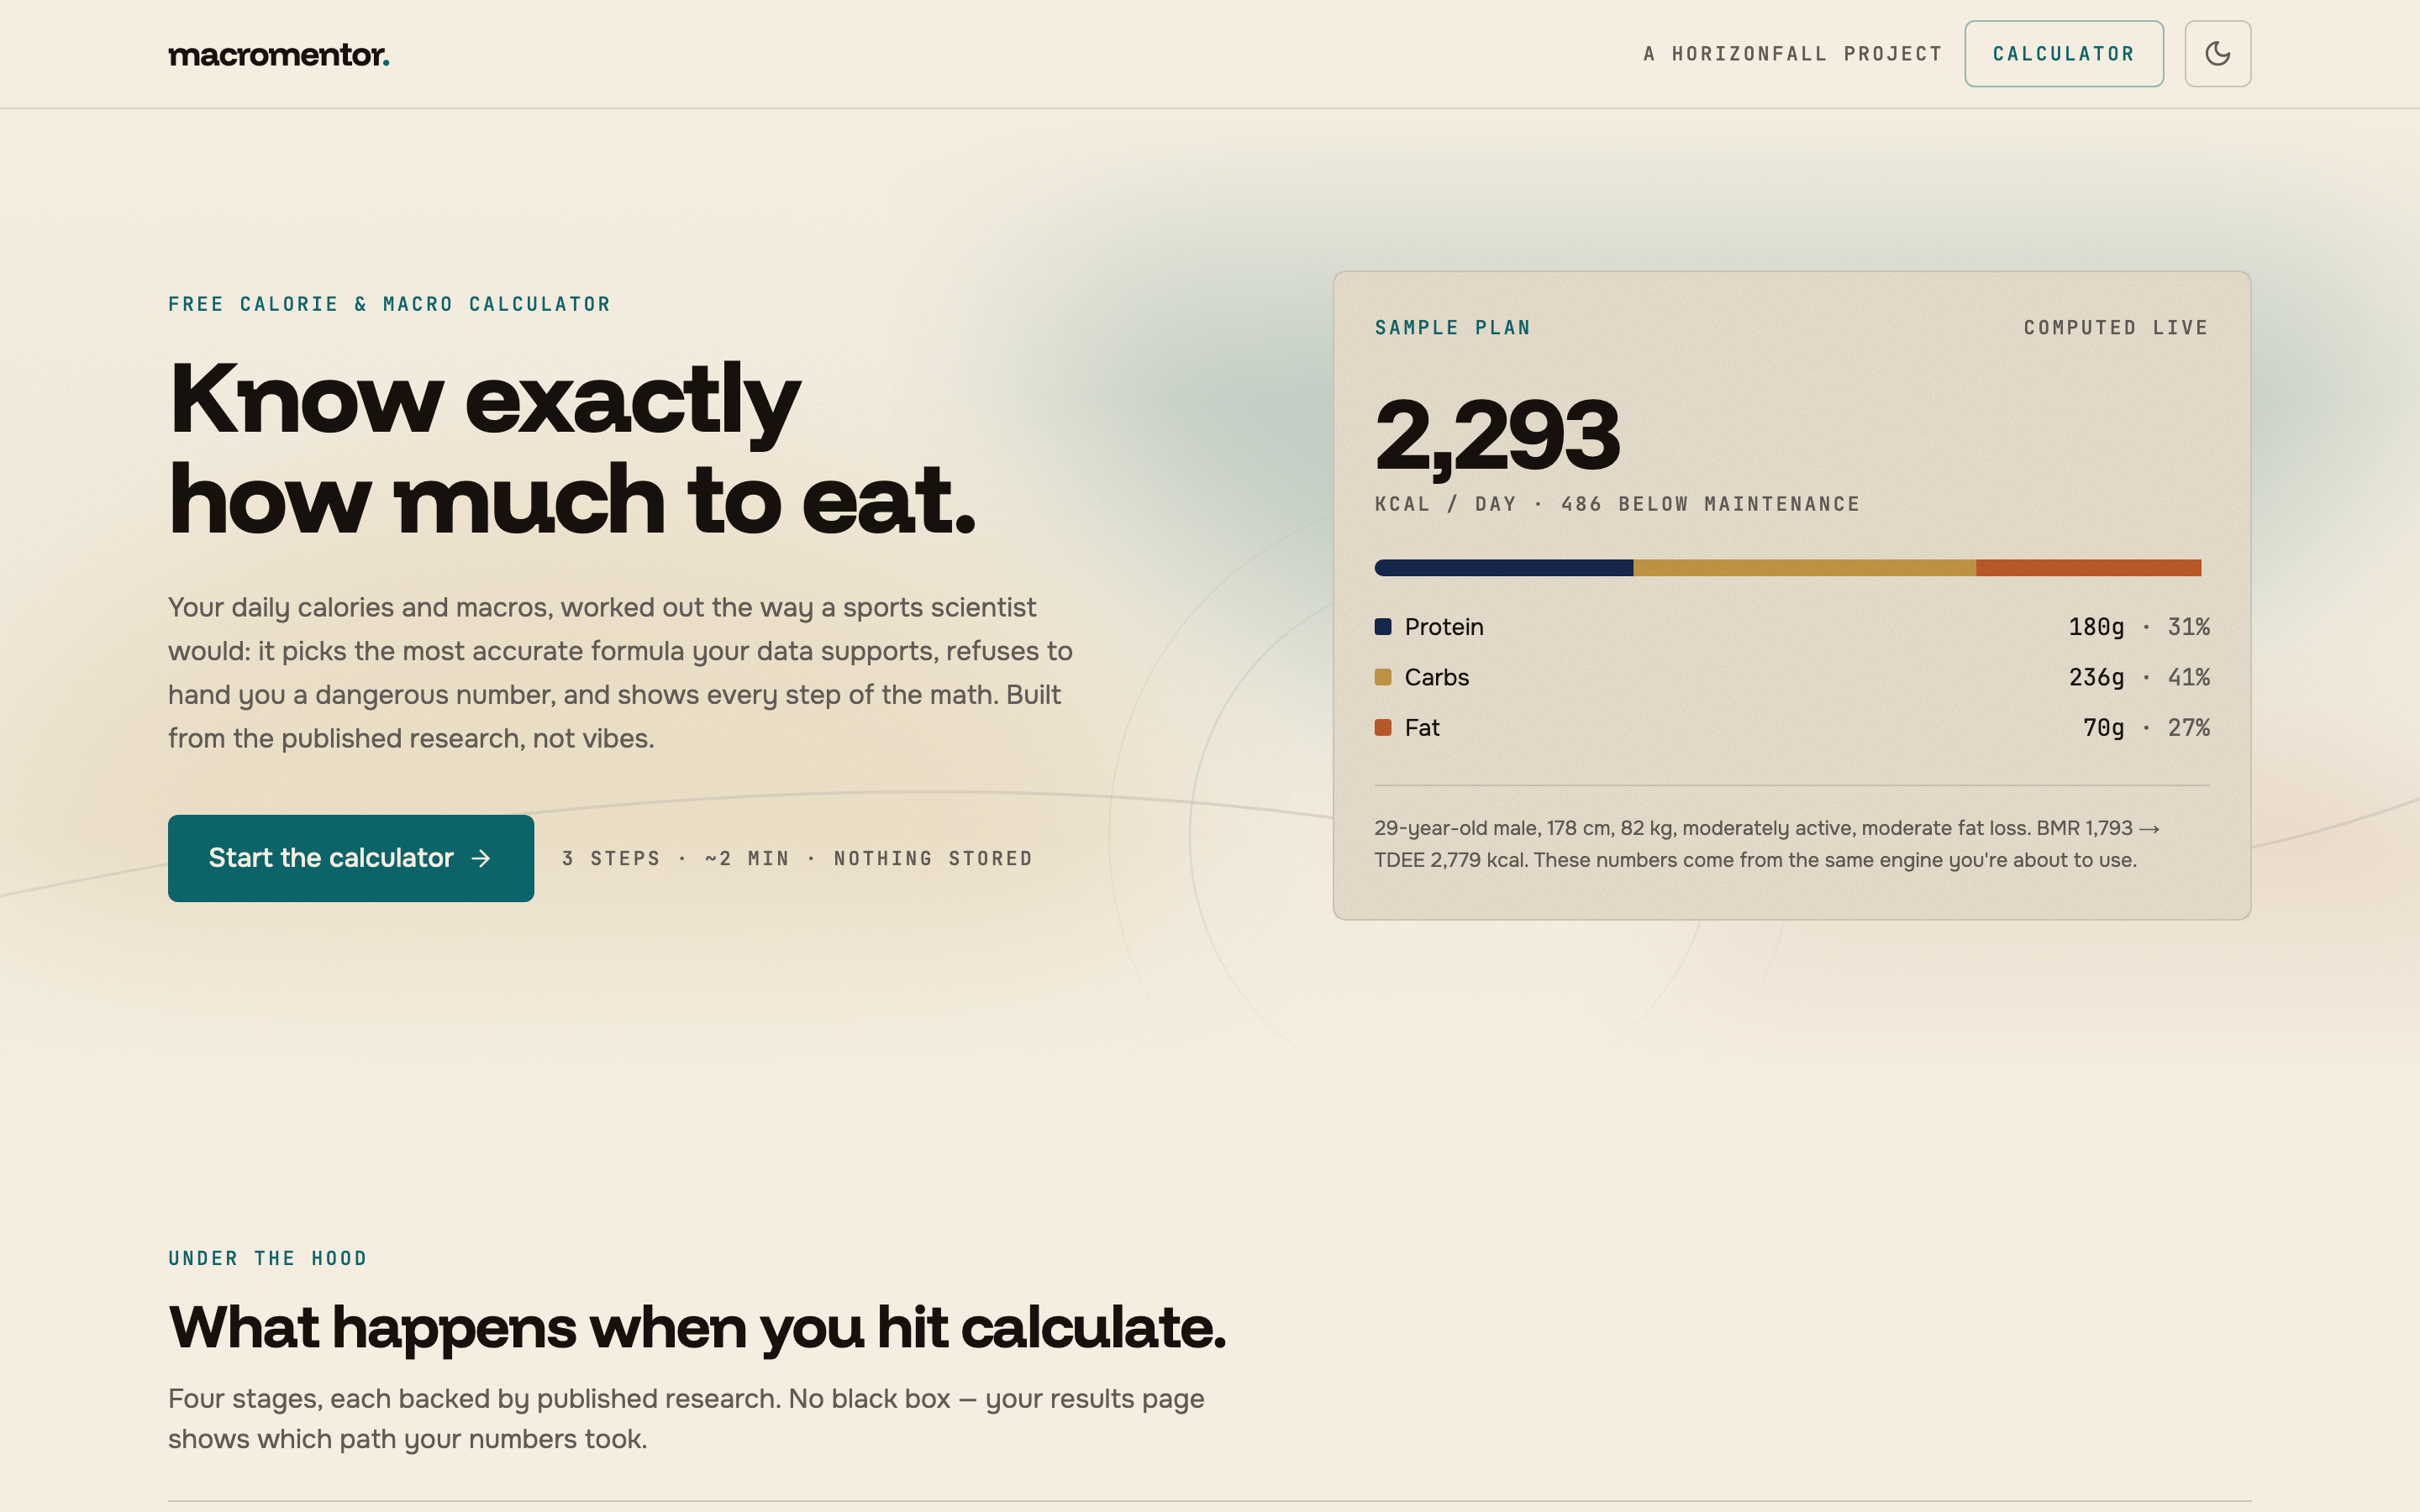
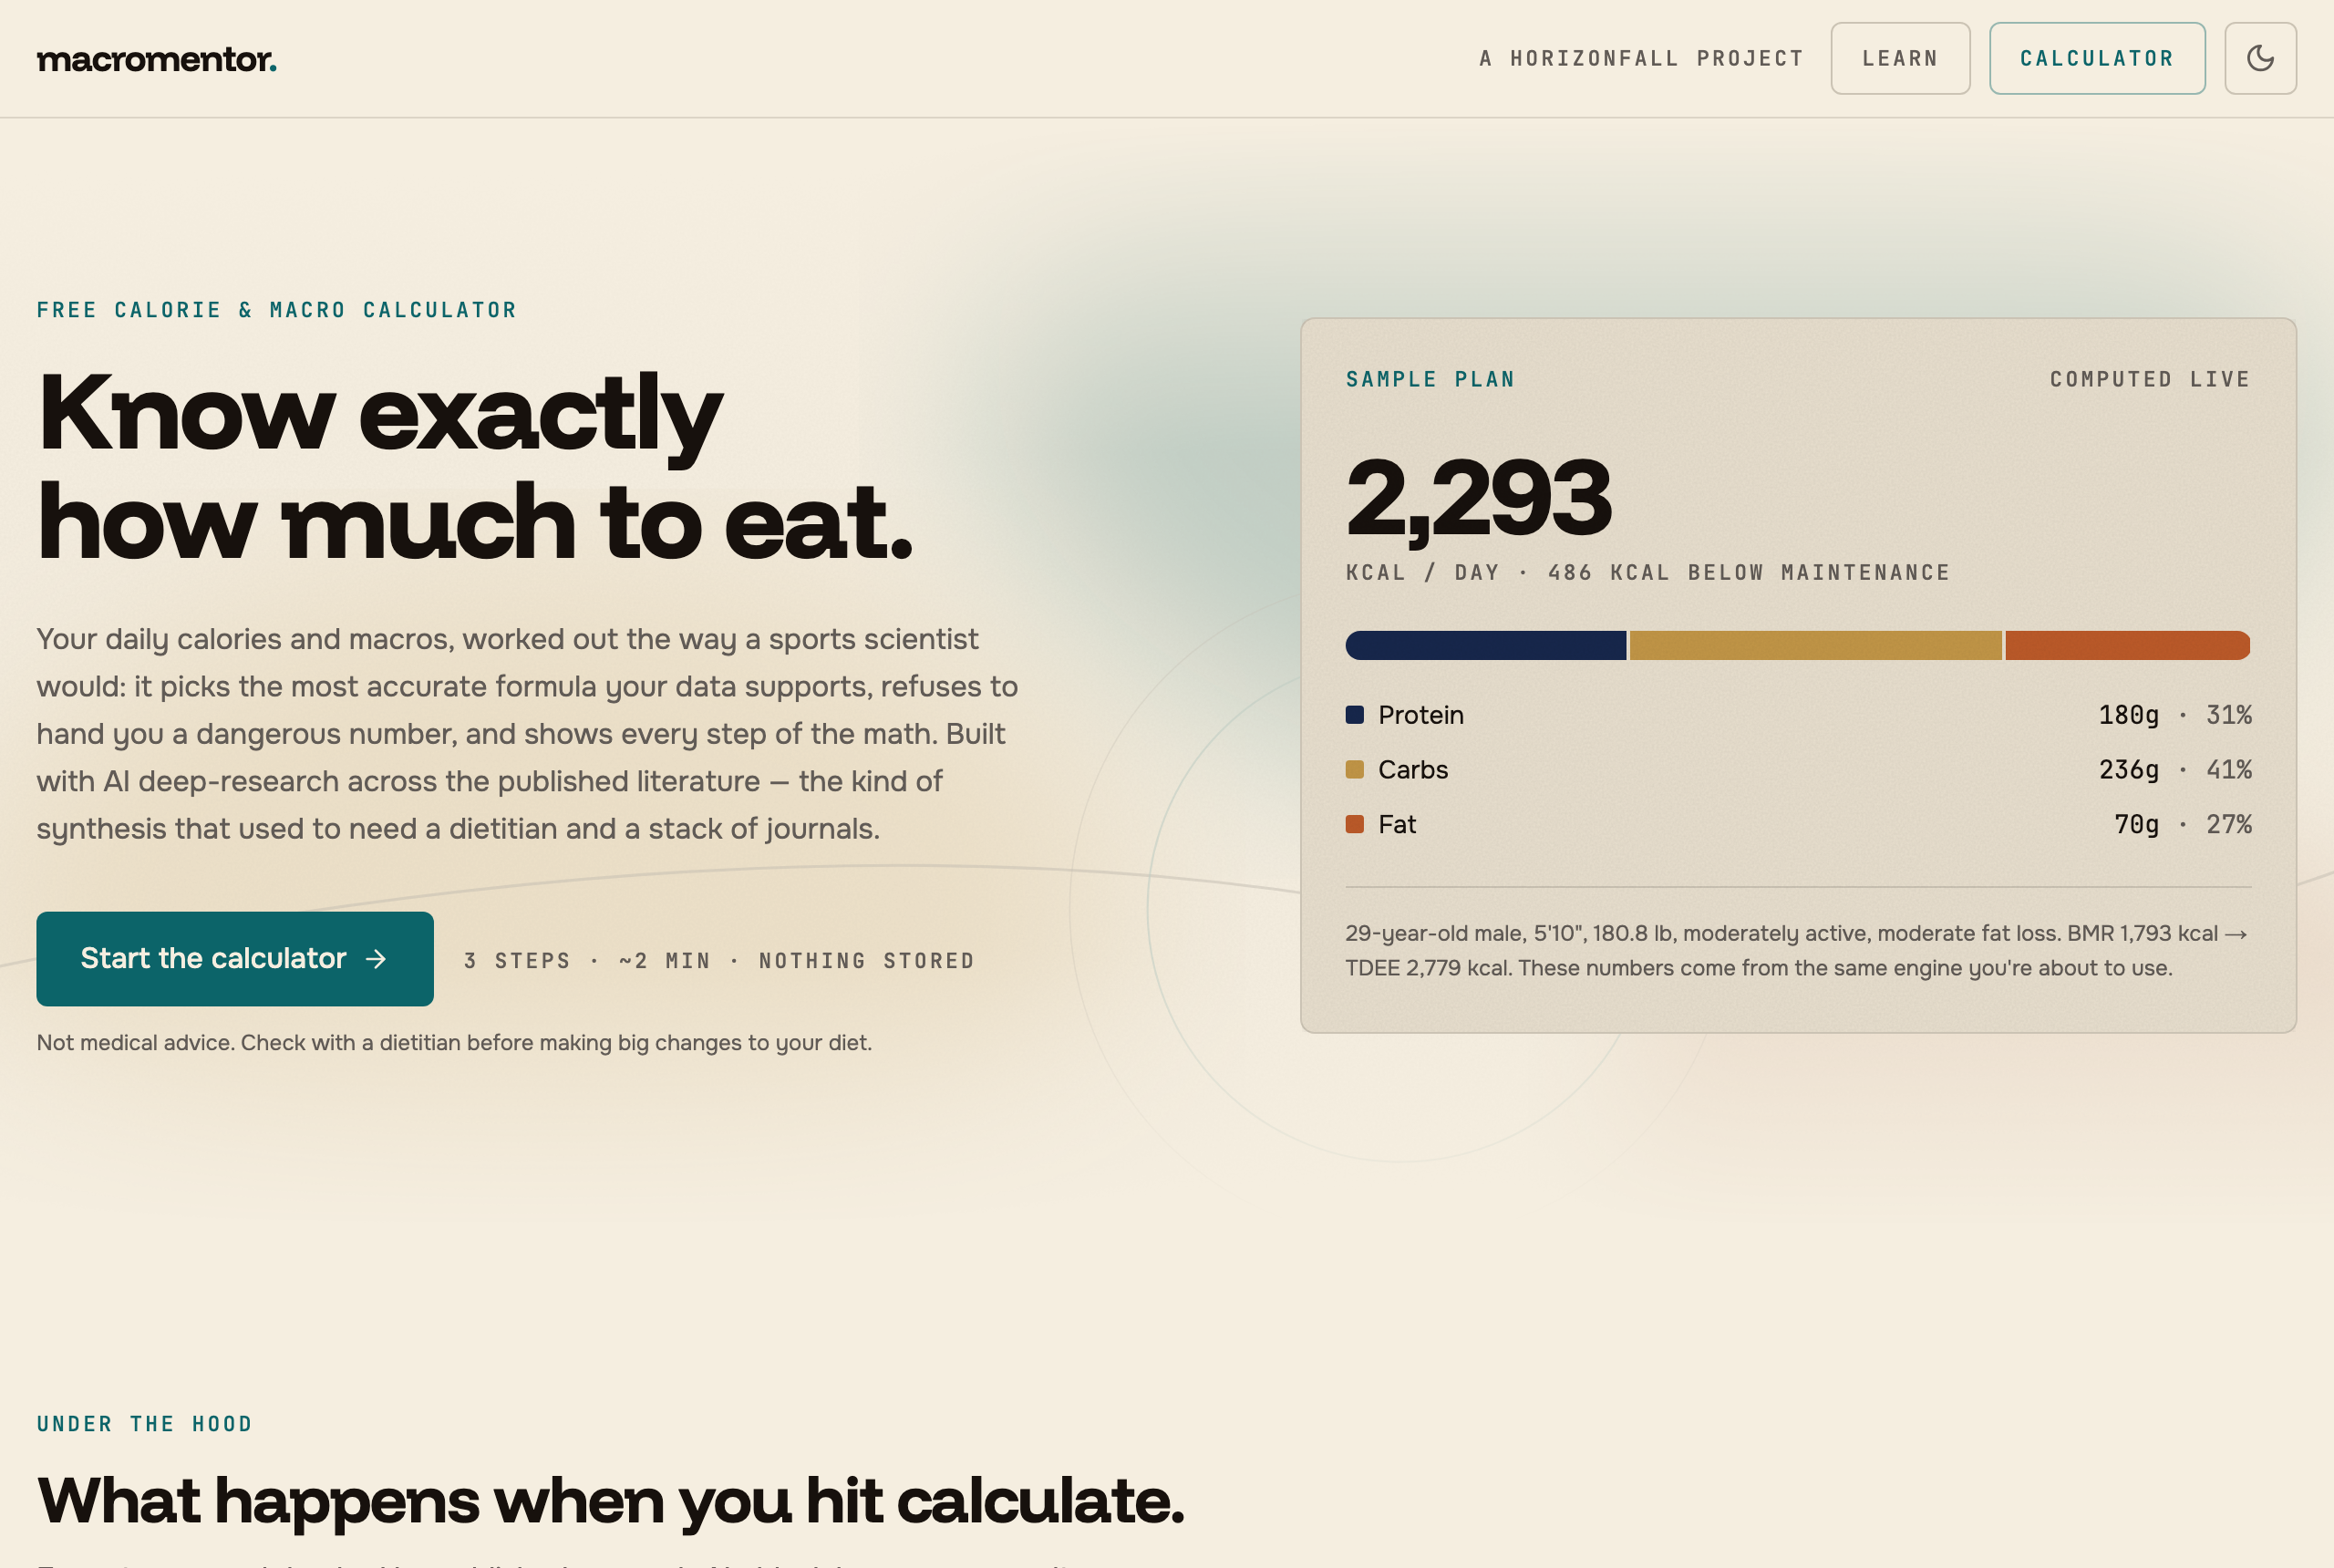
docs: refresh README with Learn hub section + updated screenshots
- New "Knowing your number is only half the job" section covering the Learn
  content hub: research->write->fact-check pipeline, in-house markdown
  renderer, typed content registry, per-article structured data + OG images.
- Refreshed homepage screenshot (now shows the Learn nav button) and added
  learn-index + article screenshots, captured via Playwright.
- Note the test-first discipline extends to prose (the fact-checker as a test).

Claude-Session: https://claude.ai/code/session_01SWr91gHWc8p2D7cCSqQQxG

diff --git a/README.md b/README.md
@@ -18,15 +18,27 @@ Everything runs in the browser. No account, no server receiving inputs, no datab
 
 ![Results page](docs/screenshot-results.png)
 
+## Knowing your number is only half the job
+
+A calculator answers "how much." People show up with "why." Why this formula and not that one? Why won't it let me drop below 1,200? Why am I stalled in a deficit that should be working? So MacroMentor grew a companion: **[the Learn hub](https://macromentor.horizonfall.com/learn)**, a set of long-form explainers that each take one of those questions and answer it with real mechanisms and named studies. No listicles, no hedging every sentence.
+
+![Learn hub](docs/screenshot-learn.png)
+
+Every scientific claim links to a verified source, a real PMID that's been checked, not a plausible-looking citation. The pieces run through a research → write → independent fact-check pipeline: one pass gathers and verifies primary sources, a second writes to a fixed house voice, and a third adversarial pass does its own fresh research and corrects the draft. That last step earns its keep. It has caught fabricated duplicate citations, a backwards ethnicity adjustment sitting in the engine itself, and a handful of overstated numbers. Anything touching a sensitive group-level claim (ancestry, sex, metabolism) ships only with a credible linked source, or it gets cut.
+
+Under the hood it's deliberately boring in the right places. Articles are plain markdown, and a small in-house renderer (with its own Vitest suite) turns them into pages, so there's no runtime markdown dependency to carry. A typed content registry is the single source of truth for slugs, categories, and SEO metadata, so publishing a new piece is one entry plus a fact-checked file. Each page is statically generated with `Article` and `BreadcrumbList` structured data, a per-article Open Graph image rendered at build time, a canonical URL, an auto-built references list, and a sitemap entry.
+
+![An article](docs/screenshot-article.png)
+
 ## How it's built
 
 The calculation core is a pure function in `calculator.ts`, covered by a 43-test Vitest suite. Every tier, every formula branch, and every safety cap has a named test case with expected values recorded.
 
-One method I arrived at the hard way: write the tests for each section first, then build against them. My first attempts let the AI build the calculator directly and it kept silently dropping steps, a tier firing wrong, a cap not triggering, a macro floor skipped. Once the tests existed as a specification, the AI-generated implementation was correct. It's the only reliable way I've found to keep AI honest on a multi-branch calculation engine, and it generalises to any complex AI-built system.
+One method I arrived at the hard way: write the tests for each section first, then build against them. My first attempts let the AI build the calculator directly and it kept silently dropping steps, a tier firing wrong, a cap not triggering, a macro floor skipped. Once the tests existed as a specification, the AI-generated implementation was correct. It's the only reliable way I've found to keep AI honest on a multi-branch calculation engine, and it generalises to any complex AI-built system. The content pipeline leans on the same instinct: the fact-checker is a test for prose, an independent pass that has to disprove the draft before it ships.
 
 The interface is a three-step flow that takes about two minutes. The results page shows its working: which formula ran, what multiplied what, where the caps kicked in. Progress and results survive a refresh. They live in session storage, not a server, so if you come back with a plan already saved, it asks whether to pick up where you left off or start over instead of quietly dropping it. Every unit system works inline (metric, imperial, stones, kJ), and a plan prints or exports to PDF in the same layout as the page. The design language is shared with [horizonfall.com](https://horizonfall.com): parchment and near-black themes, mono numerals, film grain, and an accent-coloured full stop.
 
-Stack: Next.js 16, React 19, TypeScript, Tailwind, Radix UI, Vitest, Playwright.
+Stack: Next.js 16, React 19, TypeScript, Tailwind, Radix UI, Vitest, Playwright. No CMS, no markdown library, no analytics SDK.
 
 ## License
 